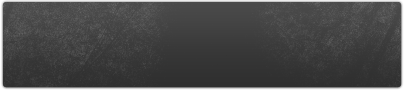
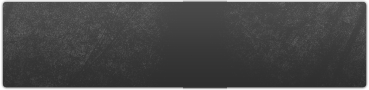
chat size

diff --git a/static/css/main.css b/static/css/main.css
@@ -918,8 +918,8 @@ body {
 }
 
 #auction-content {
-	margin: -7px auto 0 5px;
-	width: 782px;
+	margin: -7px auto 0 auto;
+	width: 748px;
 	box-shadow: 0 0 16px #000;
 	background-color: #f8f8f8;
 	border-radius: 3px;
@@ -944,7 +944,7 @@ body {
 }
 #auctioneer-message {
 	float: right;
-	width: 615px;
+	width: 585px;
 	height: 52px;
 	padding: 25px 18px 12px 29px;
 	font-size: 13px;
@@ -987,7 +987,7 @@ body {
 	position: absolute;
 }
 #auction-chat {
-	width: 782px;
+	width: 100%;
 	margin: 0 auto 0 auto;
 	min-height: 90px;
 }
@@ -1124,15 +1124,15 @@ body {
 
 #auction-play {
 	background-image: url("../images/bkg-auction-play.png");
-	width: 404px;
+	width: 369px;
 	height: 89px;
 	float: left;
-	margin: 2px 0 0 386px;
+	margin: 2px 0 0 381px;
 	position: absolute;
 }
 
 #auction-play .time-left {
-	width: 150px;
+	width: 130px;
 	float: left;
 	margin: 17px 0 0 0;
 	color: #f3ec27;
@@ -1150,7 +1150,7 @@ body {
 	margin-left: 10px;
 }
 #auction-play .bids-left {
-	width: 150px;
+	width: 130px;
 	float: left;
 	margin: 17px 0 0 0;
 	color: #fc5555;
